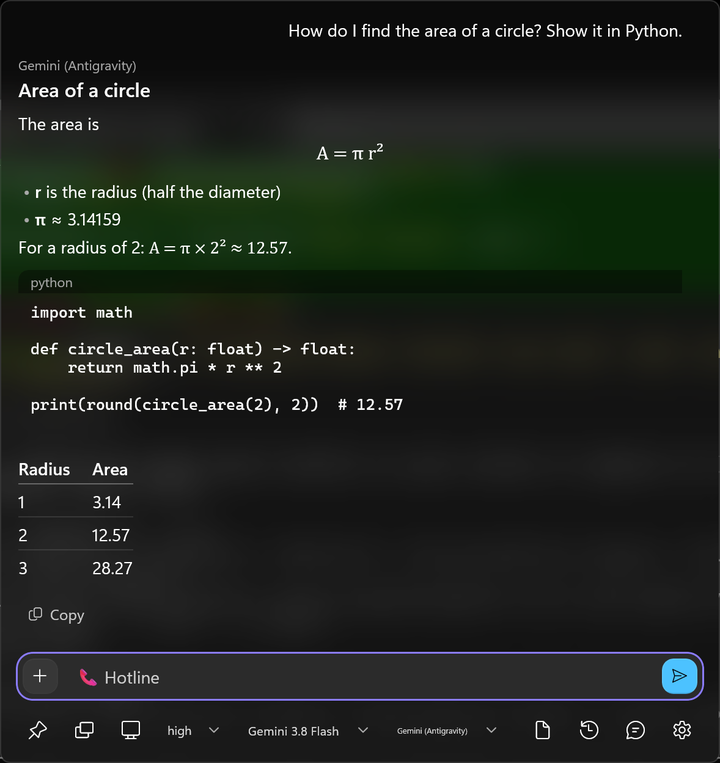
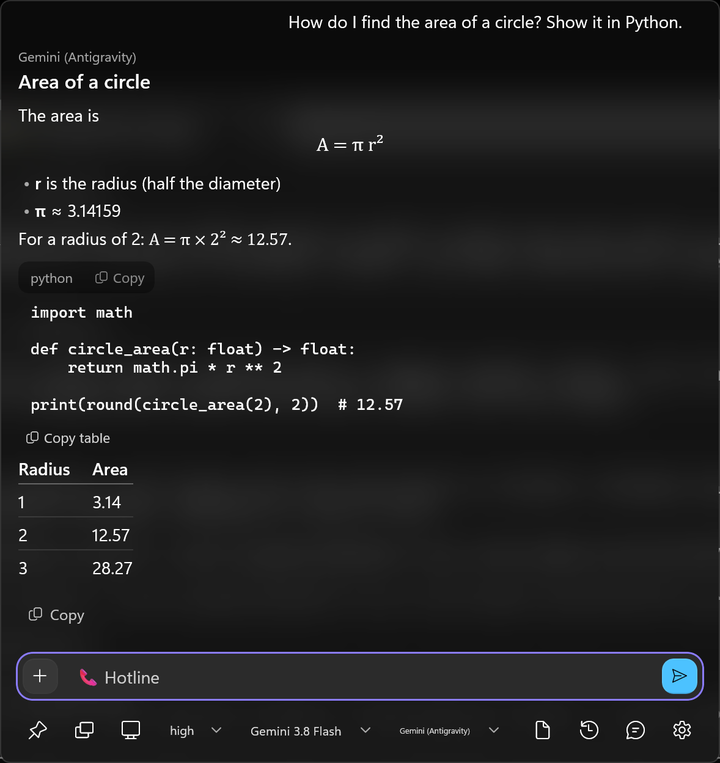
fix(ui): code-block and table Copy buttons visible (content-sized headers; boxes sized from the real text width); docs: RELEASING.md, THIRD-PARTY-NOTICES.md (licenses checked from package metadata); refreshed panel screenshot

diff --git a/src/Hotline.App/Chat/MarkdownRenderer.cs b/src/Hotline.App/Chat/MarkdownRenderer.cs
@@ -33,7 +33,14 @@ internal static class MarkdownRenderer
         }
         Paragraph Boxed(UIElement element)
         {
-            if (element is FrameworkElement fe) fe.Width = Math.Max(160, contentWidth - indent * 18);
+            // Width from the text area's real size (a box wider than the line is clipped on the right).
+            var available = rtb.ActualWidth > 0 ? rtb.ActualWidth : contentWidth;
+            if (element is FrameworkElement fe)
+            {
+                var width = Math.Max(160, available - indent * 18 - 8);
+                if (fe.HorizontalAlignment == HorizontalAlignment.Left) fe.MaxWidth = width; // content-sized, never wider than the line
+                else fe.Width = width;
+            }
             var p = new Paragraph { Margin = new Thickness(indent * 18, 0, 0, 8) };
             p.Inlines.Add(new InlineUIContainer { Child = element });
             return p;
@@ -131,8 +138,17 @@ internal static class MarkdownRenderer
             }
             catch (Exception) { /* clipboard busy (another app holds it): ignore rather than crash */ }
         };
-        var grid = new Grid { Background = s.CodeBackground, CornerRadius = new CornerRadius(s.Radius, s.Radius, 0, 0), Padding = new Thickness(10, 0, 2, 0) };
+        // Sized to its content (language · Copy) so it can never be clipped by the line width.
+        var grid = new Grid
+        {
+            Background = s.CodeBackground, CornerRadius = new CornerRadius(s.Radius), Padding = new Thickness(10, 0, 2, 0), MinHeight = 26,
+            HorizontalAlignment = HorizontalAlignment.Left, ColumnSpacing = 12,
+        };
+        grid.ColumnDefinitions.Add(new ColumnDefinition { Width = new GridLength(1, GridUnitType.Star) });
+        grid.ColumnDefinitions.Add(new ColumnDefinition { Width = GridLength.Auto });
         grid.Children.Add(new TextBlock { Text = code.Language ?? "code", FontSize = 11, Foreground = s.Muted, VerticalAlignment = VerticalAlignment.Center });
+        Grid.SetColumn(copy, 1);
+        copy.Foreground = s.Muted;
         grid.Children.Add(copy);
         return grid;
     }
@@ -182,9 +198,9 @@ internal static class MarkdownRenderer
             VerticalScrollMode = ScrollMode.Disabled, VerticalScrollBarVisibility = ScrollBarVisibility.Disabled, Padding = new Thickness(0, 0, 0, 6),
         };
         var tsv = string.Join("\n", table.Rows.Select(row => string.Join("\t", row.Select(PlainText))));
-        var copy = SmallButton("\uE8C8", "Copy", "Copy table (pastes into spreadsheets)", () => SetClipboardText(tsv));
-        copy.HorizontalAlignment = HorizontalAlignment.Right;
-        var stack = new StackPanel { Spacing = 2 };
+        var copy = SmallButton("\uE8C8", "Copy table", "Copy table (pastes into spreadsheets)", () => SetClipboardText(tsv));
+        copy.HorizontalAlignment = HorizontalAlignment.Left;
+        var stack = new StackPanel { Spacing = 2, HorizontalAlignment = HorizontalAlignment.Left };
         stack.Children.Add(copy);
         stack.Children.Add(scroll);
         return stack;

diff --git a/docs/RELEASING.md b/docs/RELEASING.md
@@ -1,0 +1,31 @@
+# Releasing Hotline
+
+## Today: signed MSIX (sideloaded)
+
+1. Merge to `main` through a PR; CI (`.github/workflows/ci.yml`) builds and runs the unit tests (manual runs any time;
+   automatic once the repository variable `HOTLINE_ACTIONS_ENABLED=true`).
+2. Store the signing certificate as secrets (`HOTLINE_SIGNING_PFX_BASE64`, `HOTLINE_SIGNING_PFX_PASSWORD`). Its subject
+   must equal the manifest `Publisher` in `src/Hotline.App/Package.appxmanifest`.
+3. Push a tag `vX.Y.Z` (or run **Release** manually). The workflow tests, builds a signed `.msix`, and publishes a
+   GitHub Release with the `.msix` and `Hotline.cer`.
+4. Users of a self-signed build trust `Hotline.cer` (Local Machine → Trusted People) once, then double-click the
+   `.msix`. Then: Settings → Personalization → Text input → Customize Copilot key → Custom → Hotline.
+
+## Before the first public release
+
+- [ ] **Signing users won't have to trust by hand:** Azure Trusted Signing (or a code-signing certificate) — change the
+      manifest `Publisher` to the certificate subject, update the secrets. Alternatively the Microsoft Store (free
+      signing, automatic updates; Store policies apply to the Copilot-key extension and full trust).
+- [ ] **Installer that feels normal (sparse package):** keep package identity — required for the Copilot key picker —
+      without a full MSIX install: ship a regular installer (e.g. Inno Setup / WiX) that copies the app to
+      `%LOCALAPPDATA%\Programs\Hotline` and registers a *sparse package* ("packaged with external location": an
+      identity-only `.msix` with `uap10:AllowExternalContent`, registered via `PackageManager.AddPackageByUriAsync`
+      with `ExternalLocationUri`). The manifest keeps the `com.microsoft.windows.copilotkeyprovider` extension, the
+      `hotline:` protocol and the startup task. Unpackaged → sparse migration: the data folder (`%USERPROFILE%\.hotline`)
+      doesn't change; credentials in Credential Locker keep working.
+- [ ] **Final icon** (the user's SVG of an upside-down phone hanging by its cord) → `scripts\make-assets.ps1 -Source`.
+- [ ] **Versioning:** `vMAJOR.MINOR.PATCH` tags; the package version is `MAJOR.MINOR.PATCH.0`.
+- [ ] **README:** fresh screenshots (`hotline://demo`, blur anything personal), install steps for the installer.
+- [x] **License check:** Apache-2.0 for Hotline; third-party: Windows App SDK (Microsoft license, see its license.txt), Markdig (BSD-2), Anthropic SDK
+      (MIT), ModelContextProtocol SDK (Apache-2.0), Fluent Emoji placeholder icon (MIT) — listed in `THIRD-PARTY-NOTICES.md`.
+- [ ] Turn on `HOTLINE_ACTIONS_ENABLED` so every PR is built and tested.

diff --git a/THIRD-PARTY-NOTICES.md b/THIRD-PARTY-NOTICES.md
@@ -1,0 +1,14 @@
+# Third-party notices
+
+Hotline is licensed under Apache-2.0 (see `LICENSE`). It uses the following third-party components:
+
+| Component | Use | License |
+|---|---|---|
+| [Windows App SDK](https://github.com/microsoft/WindowsAppSDK) (incl. WinUI 3) | UI framework, packaging, app lifecycle | Microsoft Software License Terms (`license.txt` in the NuGet package) |
+| [Markdig](https://github.com/xoofx/markdig) | Markdown parsing | BSD-2-Clause |
+| [Anthropic C# SDK](https://github.com/anthropics/anthropic-sdk-csharp) | Anthropic API connection | MIT |
+| [ModelContextProtocol C# SDK](https://github.com/modelcontextprotocol/csharp-sdk) | MCP tool servers | Apache-2.0 |
+| [Fluent Emoji](https://github.com/microsoft/fluentui-emoji) | Placeholder app icon (telephone receiver) | MIT (see `assets/source/ATTRIBUTION.md`) |
+
+Optional external programs Hotline can launch are installed and licensed separately by the user: Claude Code,
+the Antigravity CLI (agy), MCP servers listed in `mcp.json`, and the Windows on-device agent registry (`odr.exe`).
